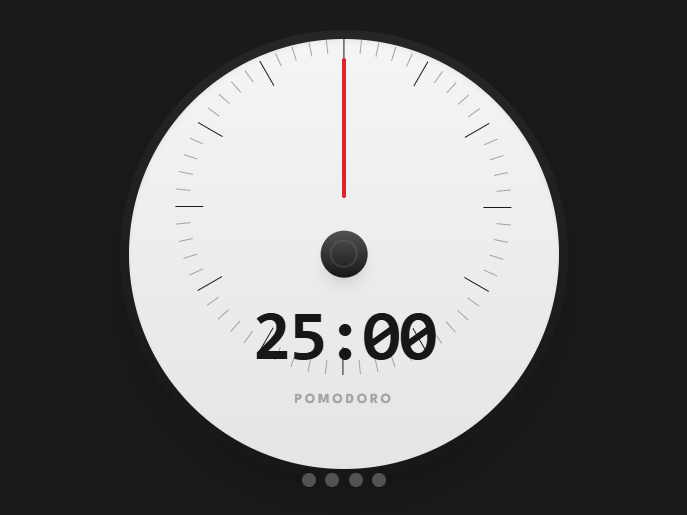
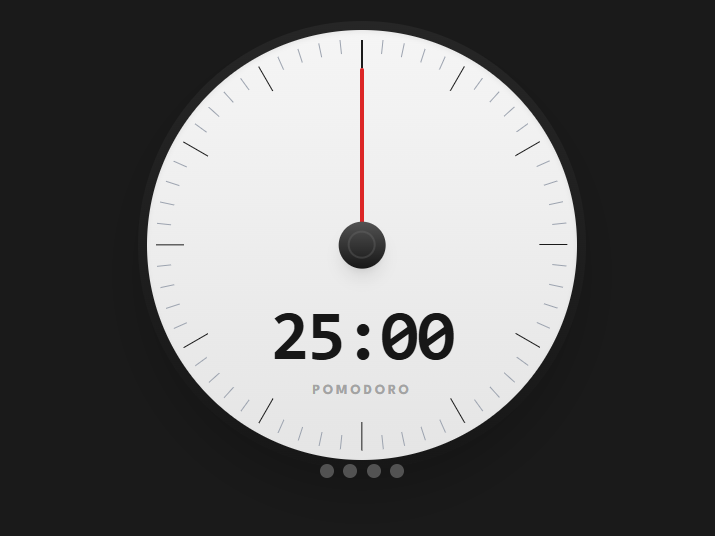
Pomodoro Tracker

diff --git a/pages/live/pomodoro.tsx b/pages/live/pomodoro.tsx
@@ -309,27 +309,34 @@ export default function PomodoroTimer() {
                                 {Array.from({ length: 60 }).map((_, i) => (
                                     <div
                                         key={i}
-                                        className="absolute top-0 left-1/2 w-px origin-bottom"
-                                        style={{
-                                            height: i % 5 === 0 ? '24px' : '12px',
-                                            backgroundColor: i % 5 === 0 ? '#1a1a1a' : '#9ca3af',
-                                            transform: `translateX(-50%) rotate(${i * 6}deg)`,
-                                            transformOrigin: `0 ${144}px`,
-                                        }}
-                                    />
+                                        className="absolute inset-0 flex justify-center"
+                                        style={{ transform: `rotate(${i * 6}deg)` }}
+                                    >
+                                        <div
+                                            style={{
+                                                height: i % 5 === 0 ? '24px' : '12px',
+                                                width: '1px',
+                                                backgroundColor: i % 5 === 0 ? '#1a1a1a' : '#9ca3af',
+                                                marginTop: '8px', // Gap from edge
+                                            }}
+                                        />
+                                    </div>
                                 ))}
 
                                 {/* Progress indicator - rotating hand */}
                                 <motion.div
-                                    className="absolute top-4 left-1/2 w-1 bg-red-600 rounded-full origin-bottom"
-                                    style={{
-                                        height: '120px',
-                                        transformOrigin: 'center bottom',
-                                        marginLeft: '-2px',
-                                    }}
+                                    className="absolute inset-0 flex justify-center"
                                     animate={{ rotate: getDialRotation() }}
                                     transition={isWinding ? { type: 'tween', duration: 0 } : { type: 'spring', stiffness: 100, damping: 15 }}
-                                />
+                                >
+                                    <div
+                                        className="w-1 bg-red-600 rounded-full"
+                                        style={{
+                                            height: 'calc(50% - 32px)',
+                                            marginTop: '32px'
+                                        }}
+                                    />
+                                </motion.div>
 
                                 {/* Center cap with tactile ridges */}
                                 <div className="absolute top-1/2 left-1/2 -translate-x-1/2 -translate-y-1/2 w-10 h-10 rounded-full bg-gradient-to-b from-neutral-600 to-neutral-900 shadow-lg flex items-center justify-center">
@@ -337,7 +344,7 @@ export default function PomodoroTimer() {
                                 </div>
 
                                 {/* Time display */}
-                                <div className="absolute top-1/2 left-1/2 -translate-x-1/2 translate-y-10">
+                                <div className="absolute top-1/2 left-1/2 -translate-x-1/2 translate-y-10 md:translate-y-12">
                                     <motion.span
                                         key={timeLeft}
                                         initial={{ scale: isWinding ? 1 : 1.02 }}
